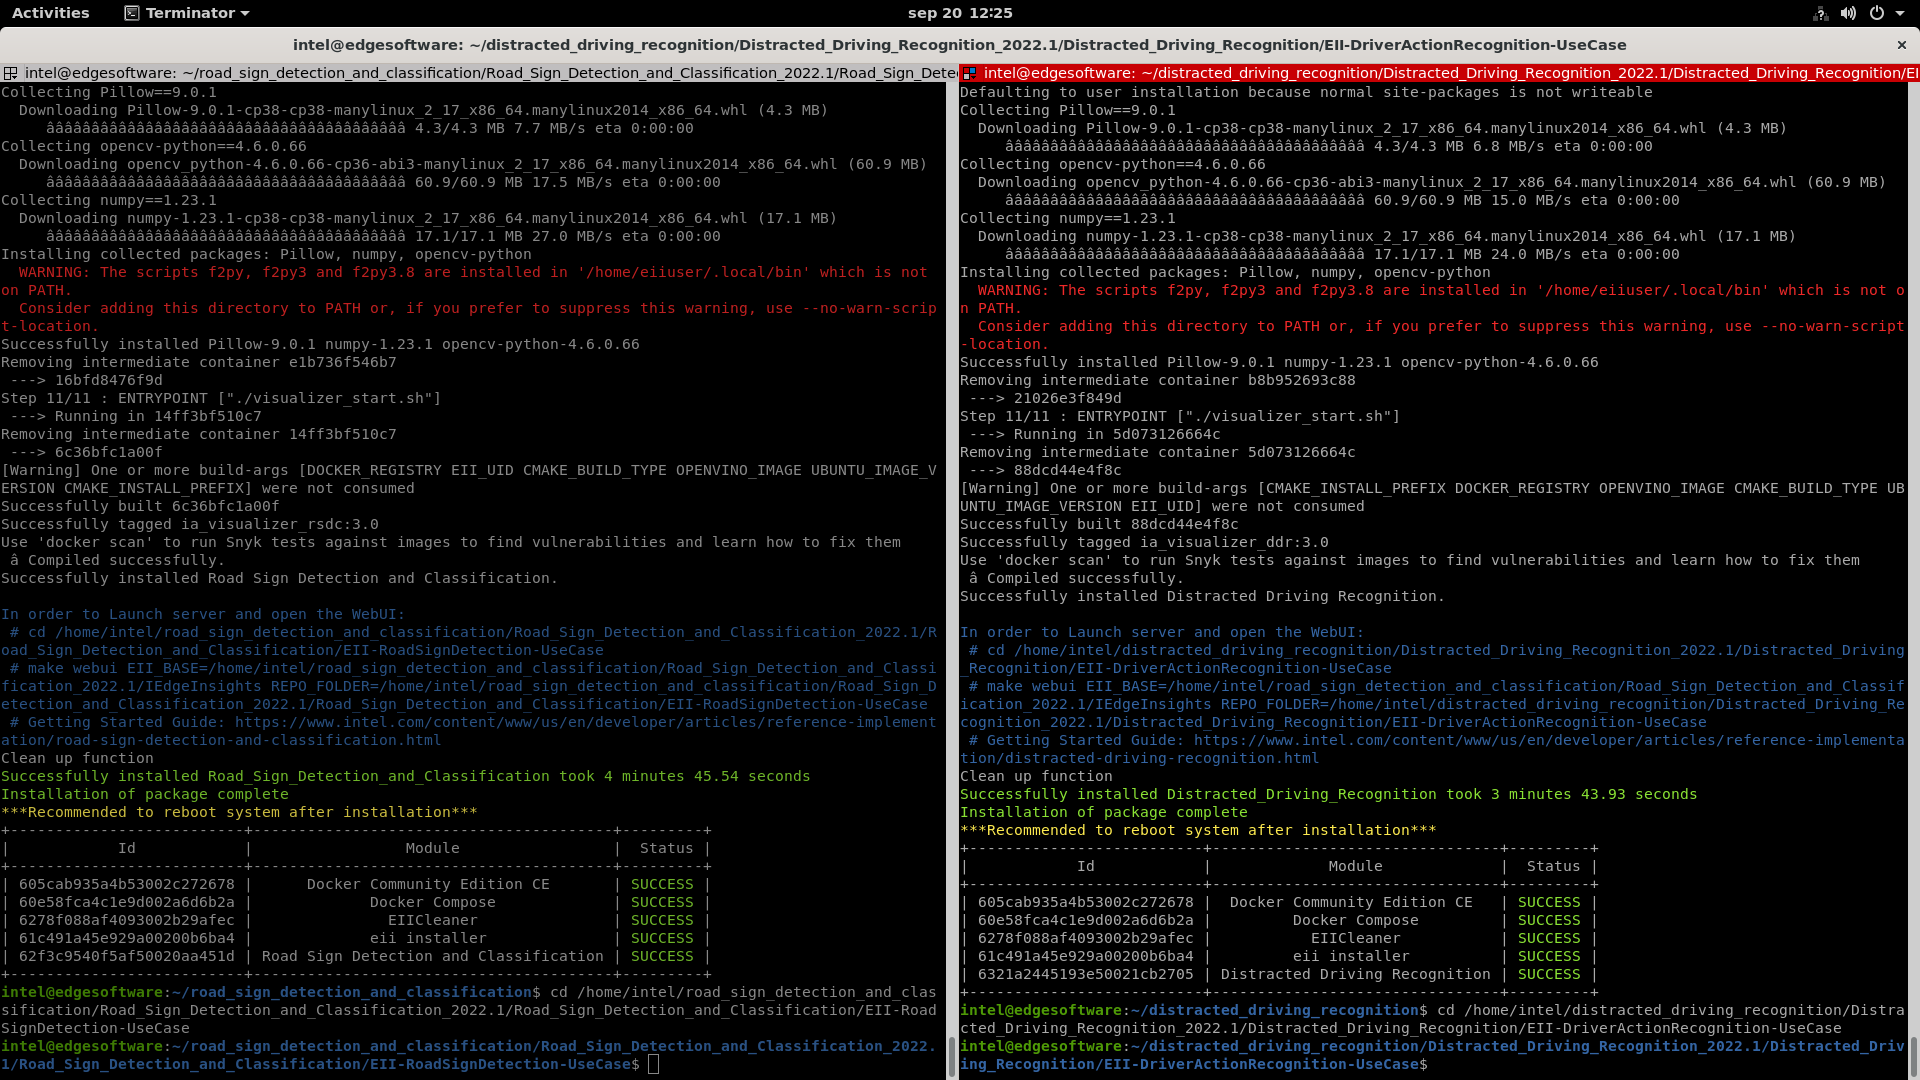
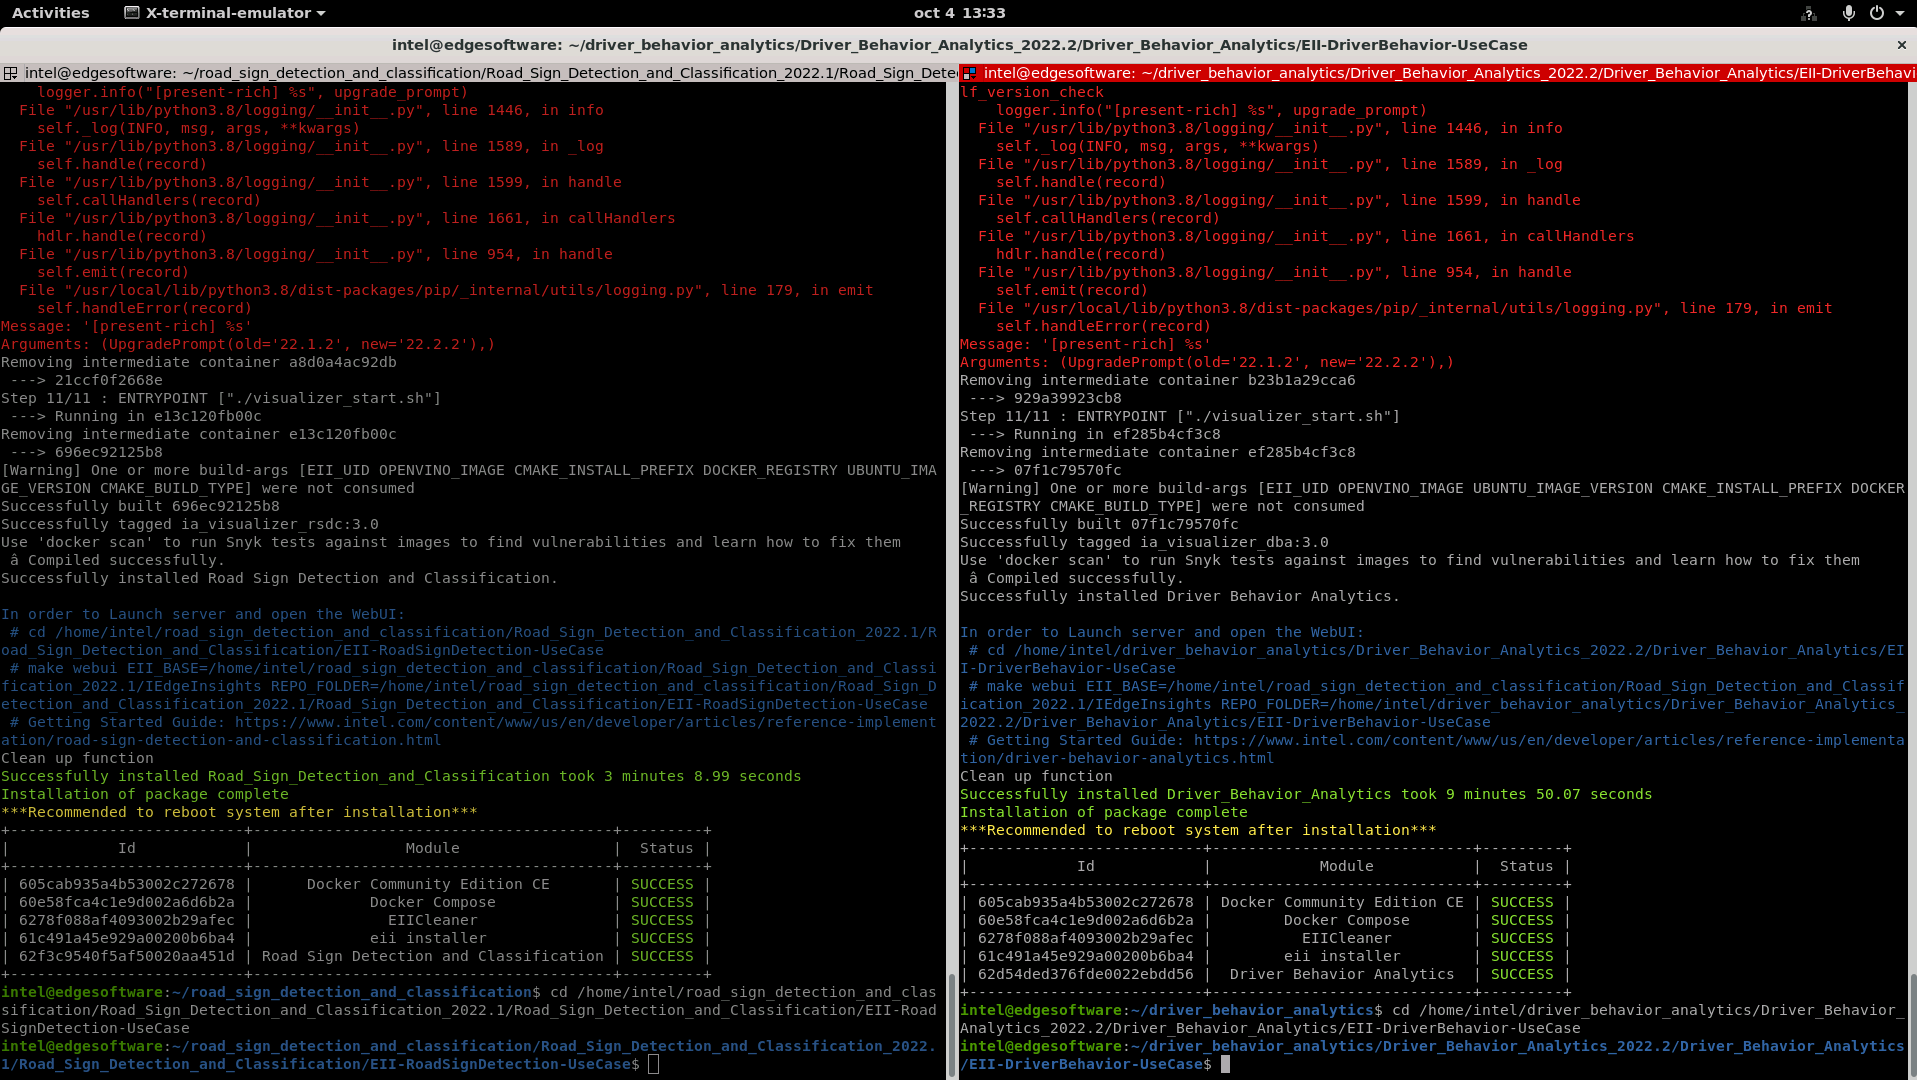
Change from DDR to DBA

diff --git a/RSDC-09Sep22/README.md b/RSDC-09Sep22/README.md
@@ -10,6 +10,14 @@ for this Use Case, allowing the vehicle to recognize different traffic signs
 placed on the road, such as speed limits, no entry, turn left or right ahead,
 road work, pedestrians, children crossing, no passing of heavy vehicles, etc.
 
+>**Disclaimer**\
+This proof of concept demonstration shows how to use Edge Insights for Fleet middleware.
+This model is provided for demonstration purposes only. We strongly recommend developers use an
+appropriate model validated for their context of use.
+In this example, one model detects Road Signs visible to a vehicles’ front-facing camera,
+and another classifies/recognizes those Signs.
+The proof of concept demonstration also uploads JPEG snapshots of video frames containing
+signs to AWS cloud servers, to validate that detection events have been triggered accurately.
 
 Select [Configure & Download](https://software.intel.com/iot/edgesoftwarehub/download/home/ri/road_sign_detection_and_classification) to download the reference implementation and the software listed below.
 
@@ -19,6 +27,7 @@ Select [Configure & Download](https://software.intel.com/iot/edgesoftwarehub/dow
 Recipient is solely responsible for compliance with all applicable regulatory standards and safety, privacy, and security related requirements concerning Recipient's use of the Intel hardware and software.\
 Recipient is solely responsible for any and all integration tasks, functions, and performance in connection with use of the Intel hardware or software as part of a larger system. Intel does not have sufficient knowledge of any adjoining, connecting, or component parts used with or possibly impacted by the Intel hardware or software or information about operating conditions or operating environments in which the Intel hardware or software may be used by Recipient.  Intel bears no responsibility, liability, or fault for any integration issues associated with the inclusion of the Intel hardware or software into a system.  It is Recipient’s responsibility to design, manage, and assure safeguards to anticipate, monitor, and control component, system, quality, and or safety failures.
 
+![Screenshot of running Reference Implementation.](docs/road-sign-detection-and-classification-ri-landing.png)
 
 -  **Time to Complete:** Approximately 60 minutes
 -  **Programming Language:** Python*
@@ -28,7 +37,9 @@ Recipient is solely responsible for any and all integration tasks, functions, an
 
 ### Recommended Hardware
 
-The below hardware is recommended for use with this reference implementation. See the [Recommended Hardware](https://www.intel.com/content/www/us/en/developer/topic-technology/edge-5g/edge-solutions/hardware.html?s=Newest) page for other suggestions. 
+The below hardware is recommended for use with this reference implementation.
+For other suggestions, see [Recommended
+Hardware](https://www.intel.com/content/www/us/en/developer/topic-technology/edge-5g/edge-solutions/hardware.html?s=Newest).
 
 -   [ADLINK MXE-5500 Series](https://www.adlinktech.com/Products/Industrial_PCs_Fanless_Embedded_PCs/IntegratedFanlessEmbeddedComputers/MXE-5500_Series?lang=en)
 
@@ -164,7 +175,7 @@ to enable all dashboard features, including the cloud storage.
 
    Figure 5: Configuration Tab Contents
 
-   > **NOTE:** If you don't have an AWS account you will not be able to access Storage Cloud. You can still enable the Thingsboard Cloud Data if you configured it locally or on another machine.
+   > **NOTE:** If you don't have an AWS account, you will not be able to access Storage Cloud. You can still enable the ThingsBoard Cloud Data if you configured it locally or on another machine.
 
 4. Access the Road Sign Detection and Classification Dashboard with the following steps.
 
@@ -218,9 +229,10 @@ to enable all dashboard features, including the cloud storage.
 
       Figure 9: Visualizer Output
 
-5. After the visualizer starts, you can go to the ThingsBoard link and check the alerts sent by the
-reference implementation. If you configured the AWS credentials, you will also have access to
-pictures taken by the application on the video stream.
+5. After the visualizer starts, you can go to the ThingsBoard link and check the
+   alerts sent by the reference implementation. If you configured the AWS
+   credentials, you will also have access to pictures taken by the application on
+   the video stream.
 
    ![A browser window showing the ThingsBoard link with the Intel Fleet Manager dashboard in the main view. Several components are displayed, including Alerts, Temperature, and a map showing the vehicle location.](docs/road-sign-detection-and-classification-ri-tb-dashboard-with-data.png)
 
@@ -235,15 +247,15 @@ pictures taken by the application on the video stream.
    Figure 11: Reference Implementation Storage Tab
 
 
-## Run in Parallel with Distracted Driving Recognition Reference Implementation
+## Run in Parallel with Driver Behavior Analytics Reference Implementation
 
-To run this task you will need to download and install [Distracted Driving Recognition](https://www.intel.com/content/www/us/en/developer/articles/reference-implementation/distracted-driving-recognition.html) Reference Implementation.
+To run this task you will need to download and install [Driver Behavior Analytics](https://www.intel.com/content/www/us/en/developer/articles/reference-implementation/driver-behavior-analytics.html) Reference Implementation.
 
 ### Prerequisites
 
 -   Two terminals
 
--   Follow the steps to install [Distracted Driving Recognition](https://www.intel.com/content/www/us/en/develop/articles/distracted-driving-recognition.html#install) after installing [Road Sign Detection and Classification](#step-1-install-the-reference-implementation)
+-   Follow the steps to install [Driver Behavior Analytics](https://www.intel.com/content/www/us/en/develop/articles/driver-behavior-analytics.html#install) after installing [Road Sign Detection and Classification](#step-1-install-the-reference-implementation)
 
 ### Steps to Run the Application
 
@@ -257,10 +269,10 @@ To run this task you will need to download and install [Distracted Driving Recog
 
    Figure 12: Set Up System Console Windows
 
-2. Change directory to **Distracted Driving Recognition Use Case** path on terminal 2:
+2. Change directory to **Driver Behavior Analytics Use Case** path on terminal 2:
 
    ```bash
-   cd <INSTALL_PATH>/distracted_driving_recognition/Distracted_Driving_Recognition_2022.1/Distracted_Driving_Recognition/EII-DriverActionRecognition-UseCase
+   cd <INSTALL_PATH>/driver_behavior_analytics/Driver_Behavior_Analytics_2022.2/Driver_Behavior_Analytics/EII-DriverBehavior-UseCase
    ```
 
    ![A window showing 2 system consoles. Each console is displaying a different directory.](docs/road-sign-detection-and-classification-ri-change-directory2.png)
@@ -278,7 +290,7 @@ To run this task you will need to download and install [Distracted Driving Recog
    Copy and run the `make webui` command from the end of the installation:
 
    ```bash
-   make webui EII_BASE=<INSTALL_PATH>/road_sign_detection_and_classification/Road_Sign_Detection_and_Classification_2022.1/IEdgeInsights REPO_FOLDER=<INSTALL_PATH>/distracted_driving_recognition/Distracted_Driving_Recognition_2022.1/Distracted_Driving_Recognition/EII-DriverActionRecognition-UseCase
+   make webui EII_BASE=<INSTALL_PATH>/road_sign_detection_and_classification/Road_Sign_Detection_and_Classification_2022.1/IEdgeInsights REPO_FOLDER=<INSTALL_PATH>/driver_behavior_analytics/Driver_Behavior_Analytics_2022.2/Driver_Behavior_Analytics/EII-DriverBehavior-UseCase
    ```
 
    ![A window showing 2 system consoles. Each console is running a different application.](docs/road-sign-detection-and-classification-ri-webserver-app.png)
@@ -292,7 +304,7 @@ To run this task you will need to download and install [Distracted Driving Recog
 
 7. Wait for the Visualizer to get up and running.
 
-8. Open the Distracted Driving Recognition page by going to address **127.0.0.1:9099**.
+8. Open the Driver Behavior Analytics page by going to address **127.0.0.1:9092**.
 
 9. Configure the camera with the desired video and set the target for each one (**CPU** or **GPU**) and click **Run Use Case**.
 
